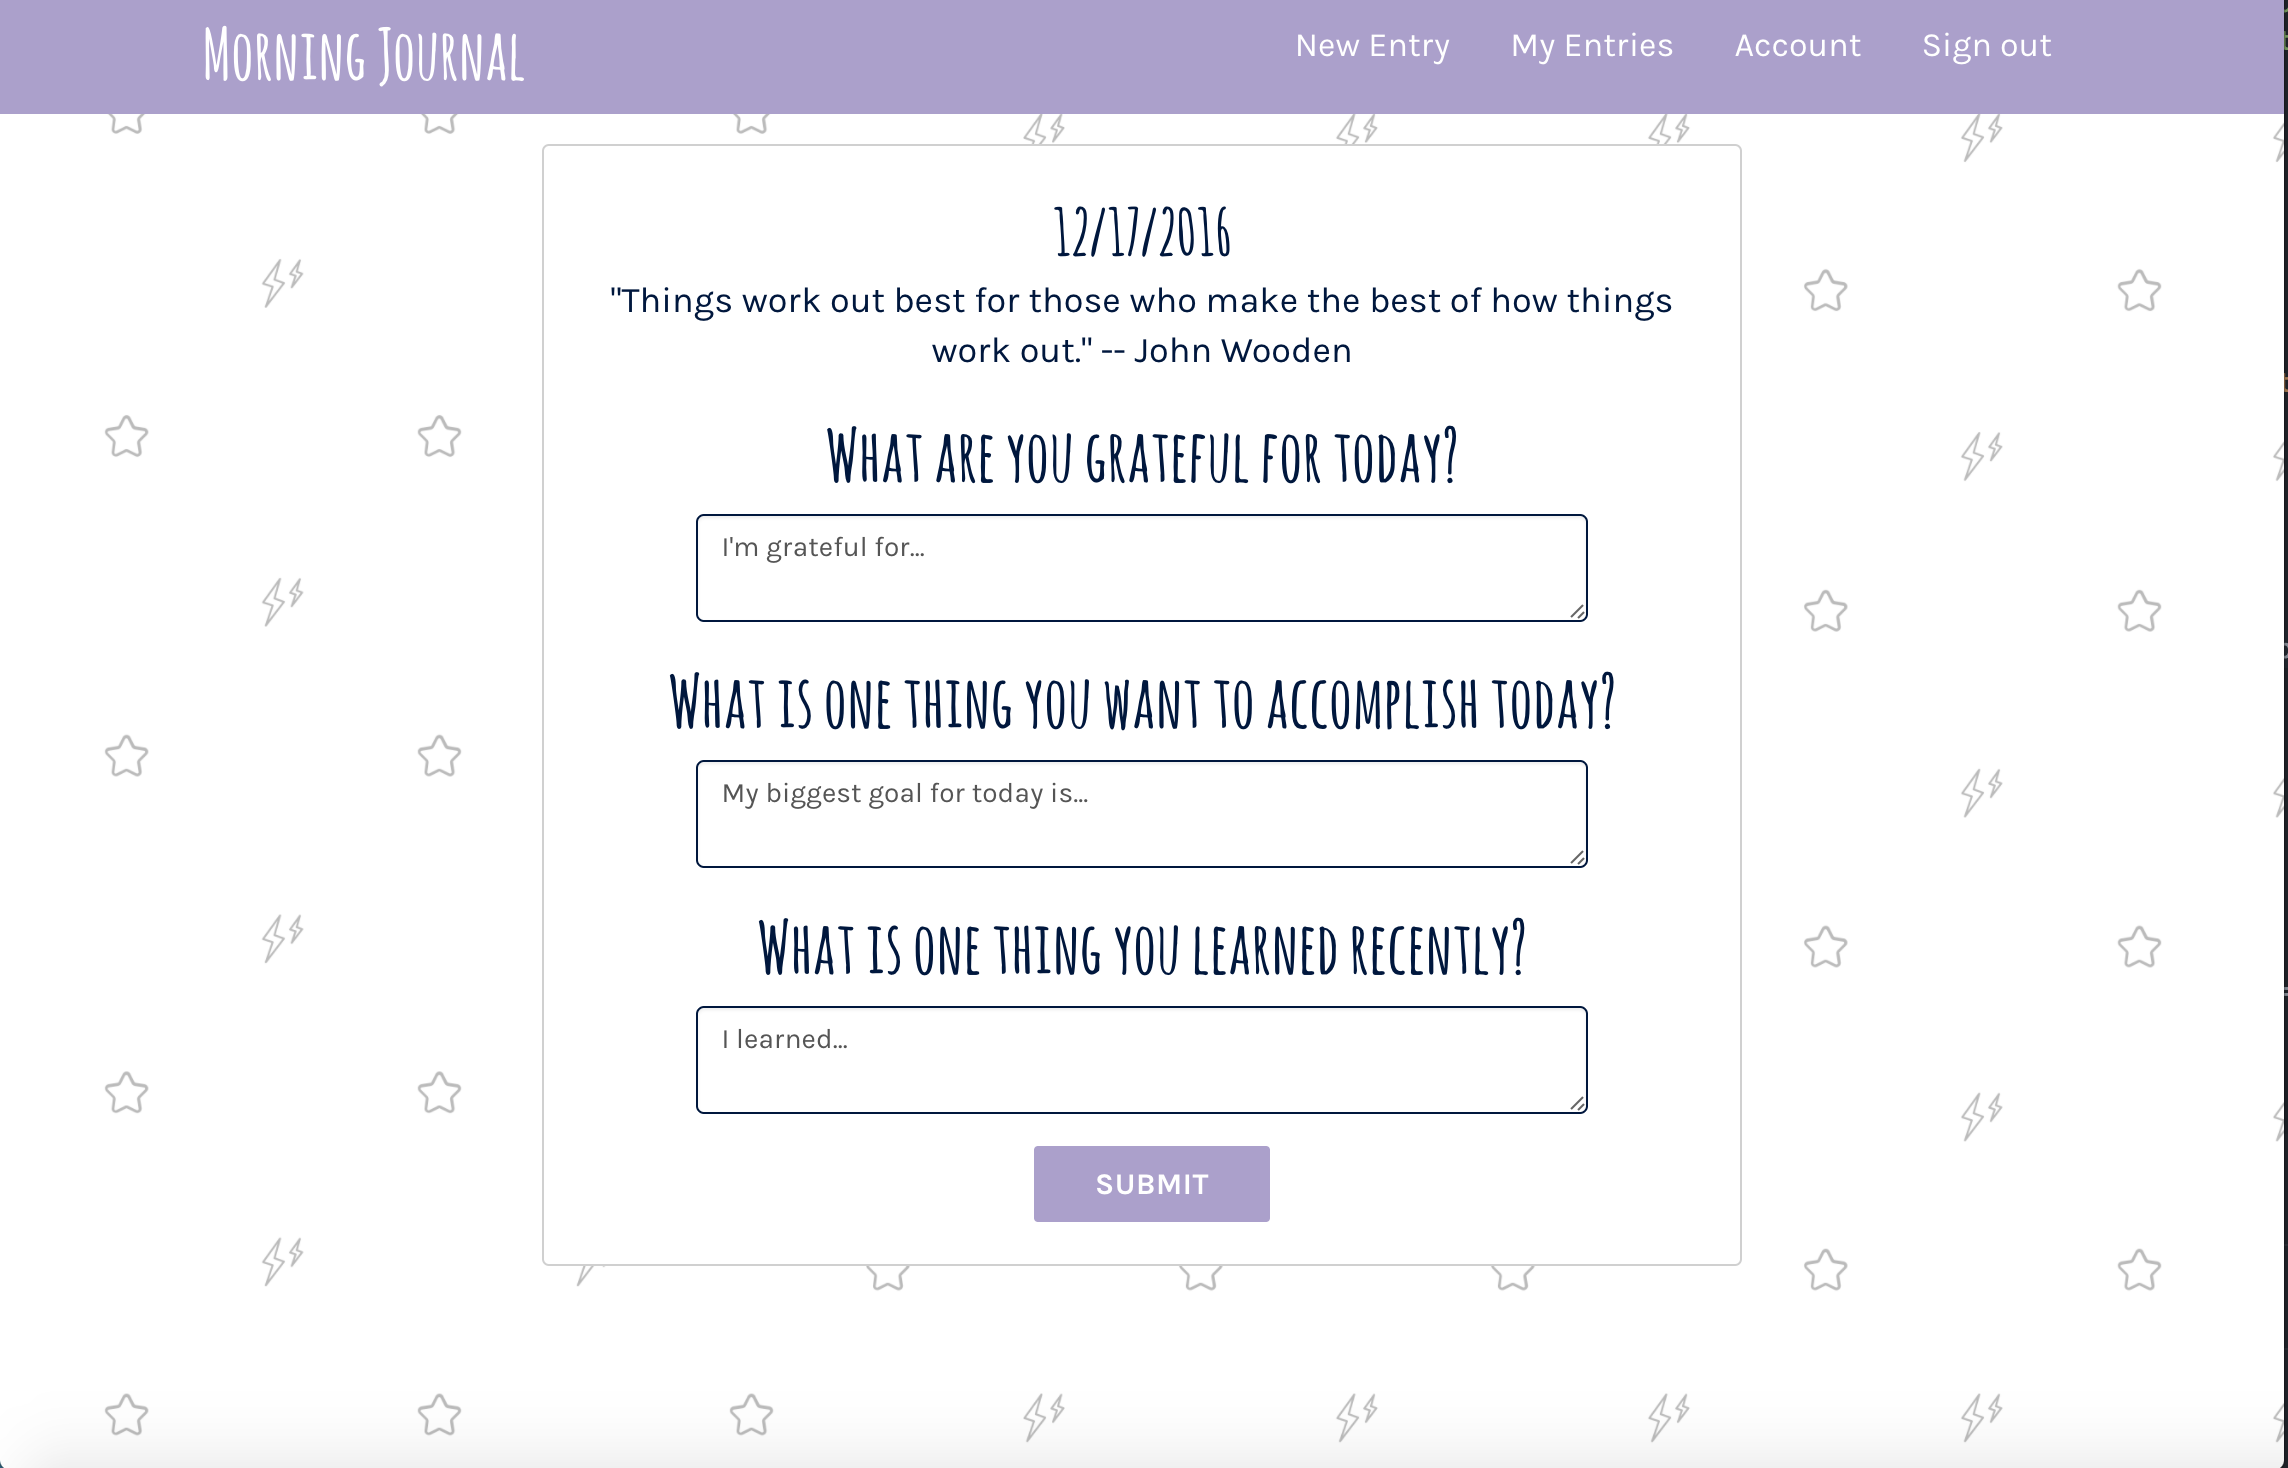
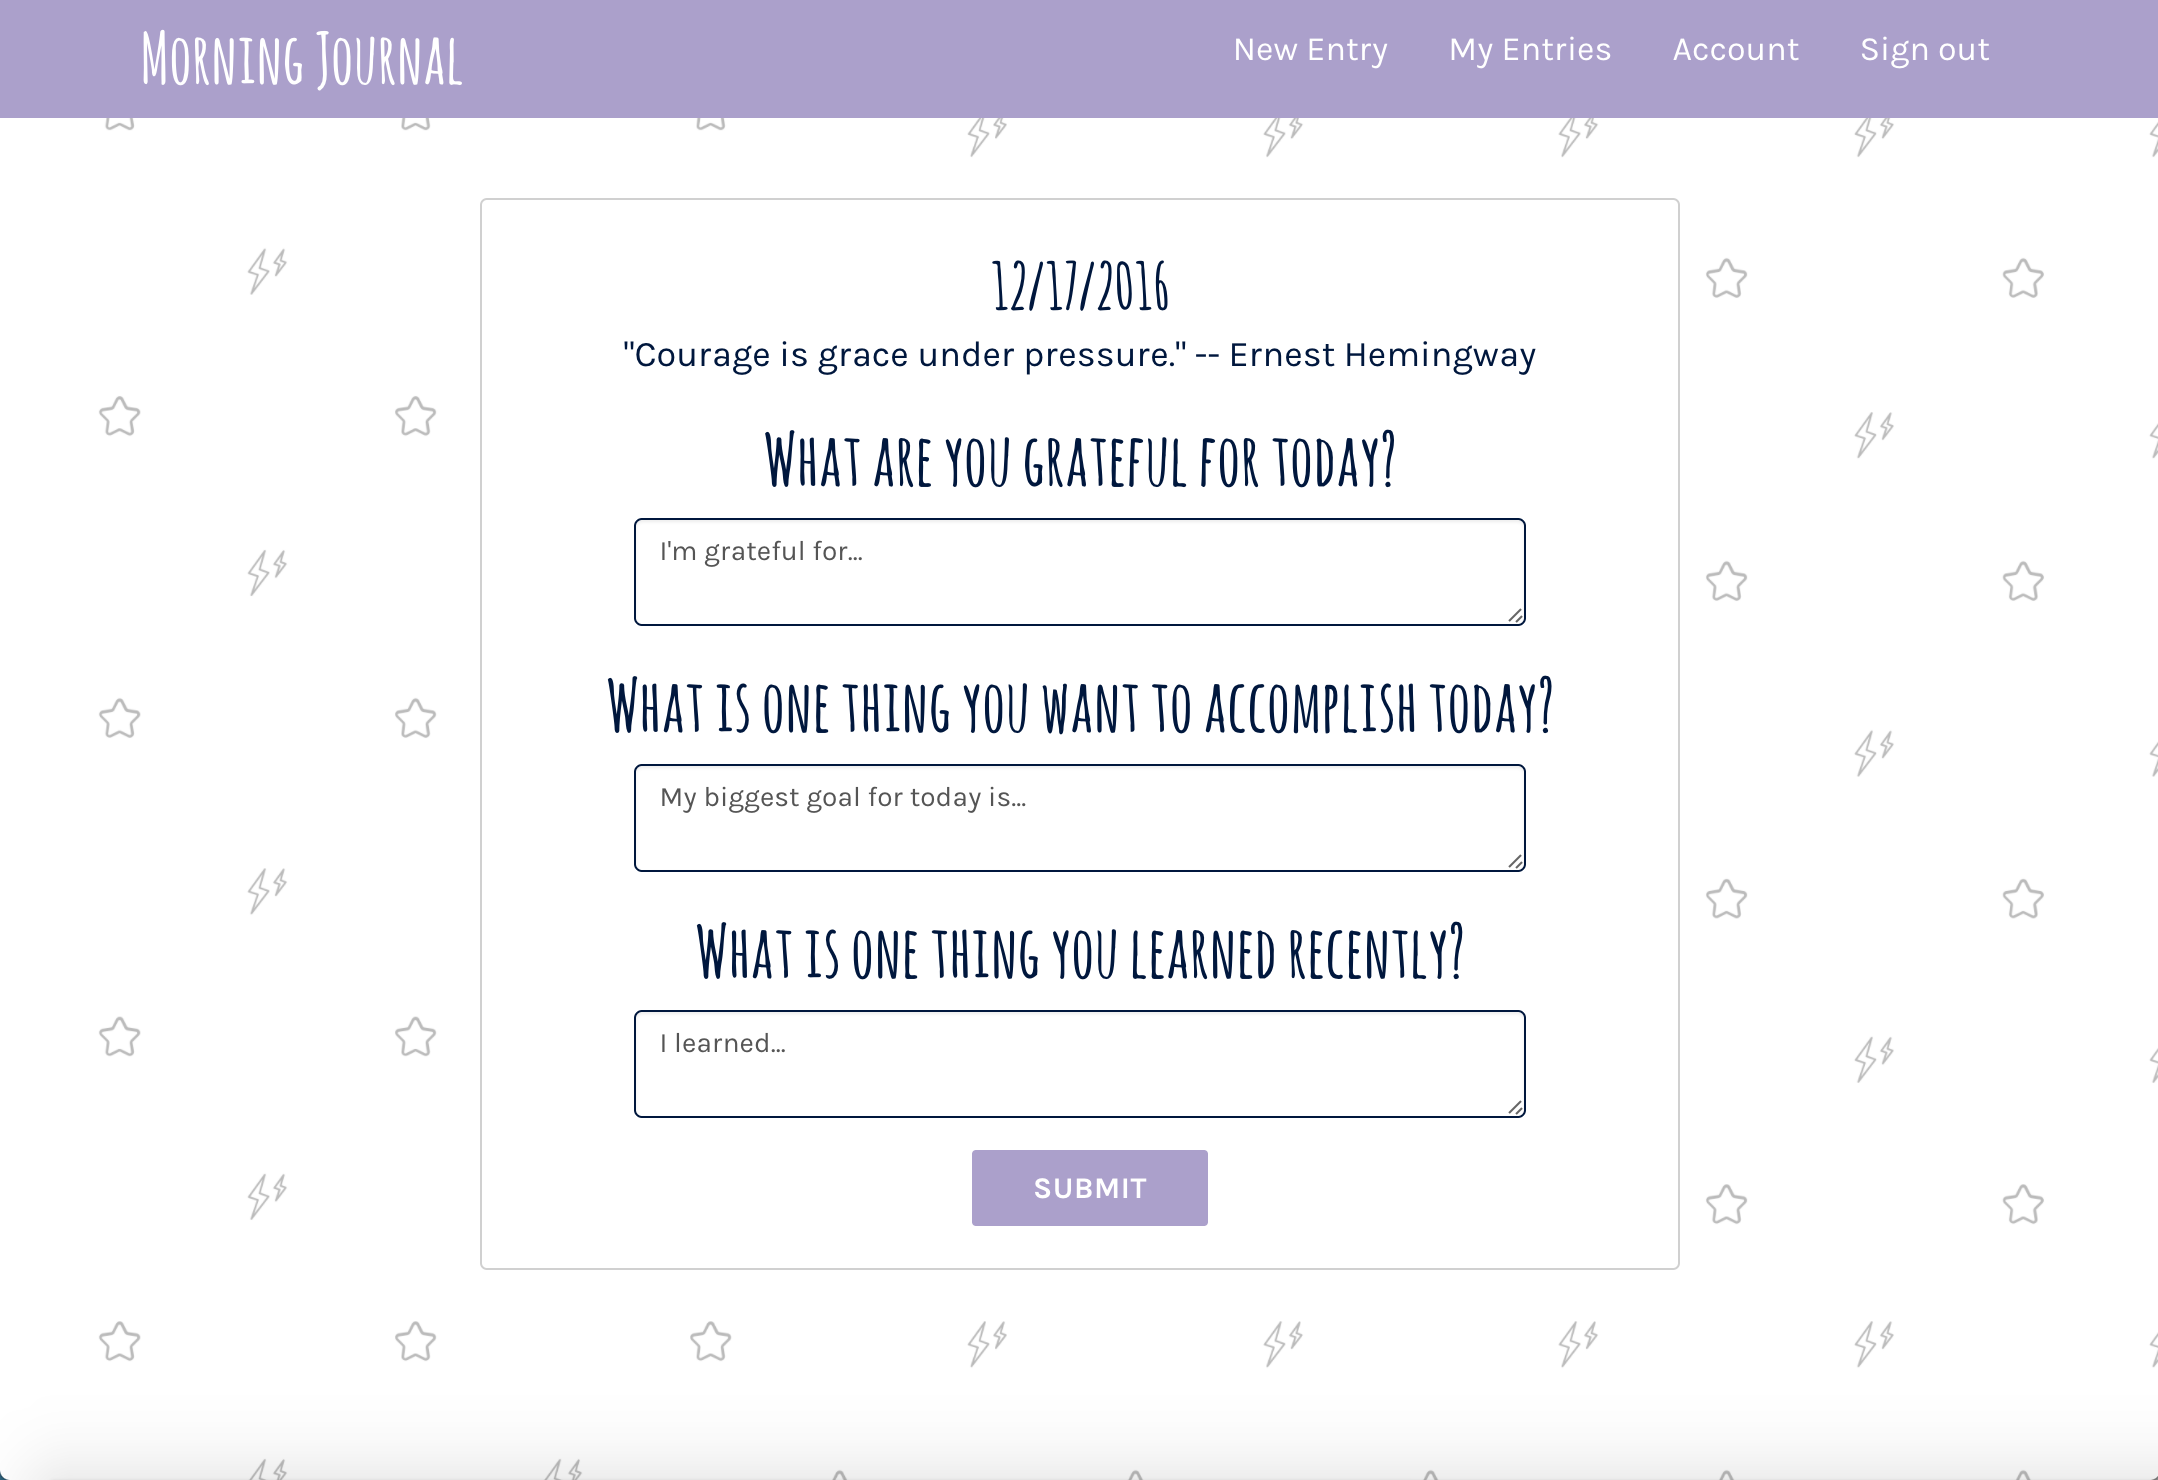
fixed computer image again

diff --git a/app/assets/stylesheets/application.scss b/app/assets/stylesheets/application.scss
@@ -58,10 +58,10 @@ h2{
 
 .card-center {
   padding:20px;
-  margin: auto;
+  margin:auto;
+  margin-top:25px;
   text-align: center;
   background:#fff;
-
   max-width:600px;
   border-radius: .35rem;
   border: #D0D0D0 solid 1px
@@ -84,7 +84,7 @@ h2{
 
    margin-top:5px;
    margin-bottom:5px;
-   
+
 
 
 
